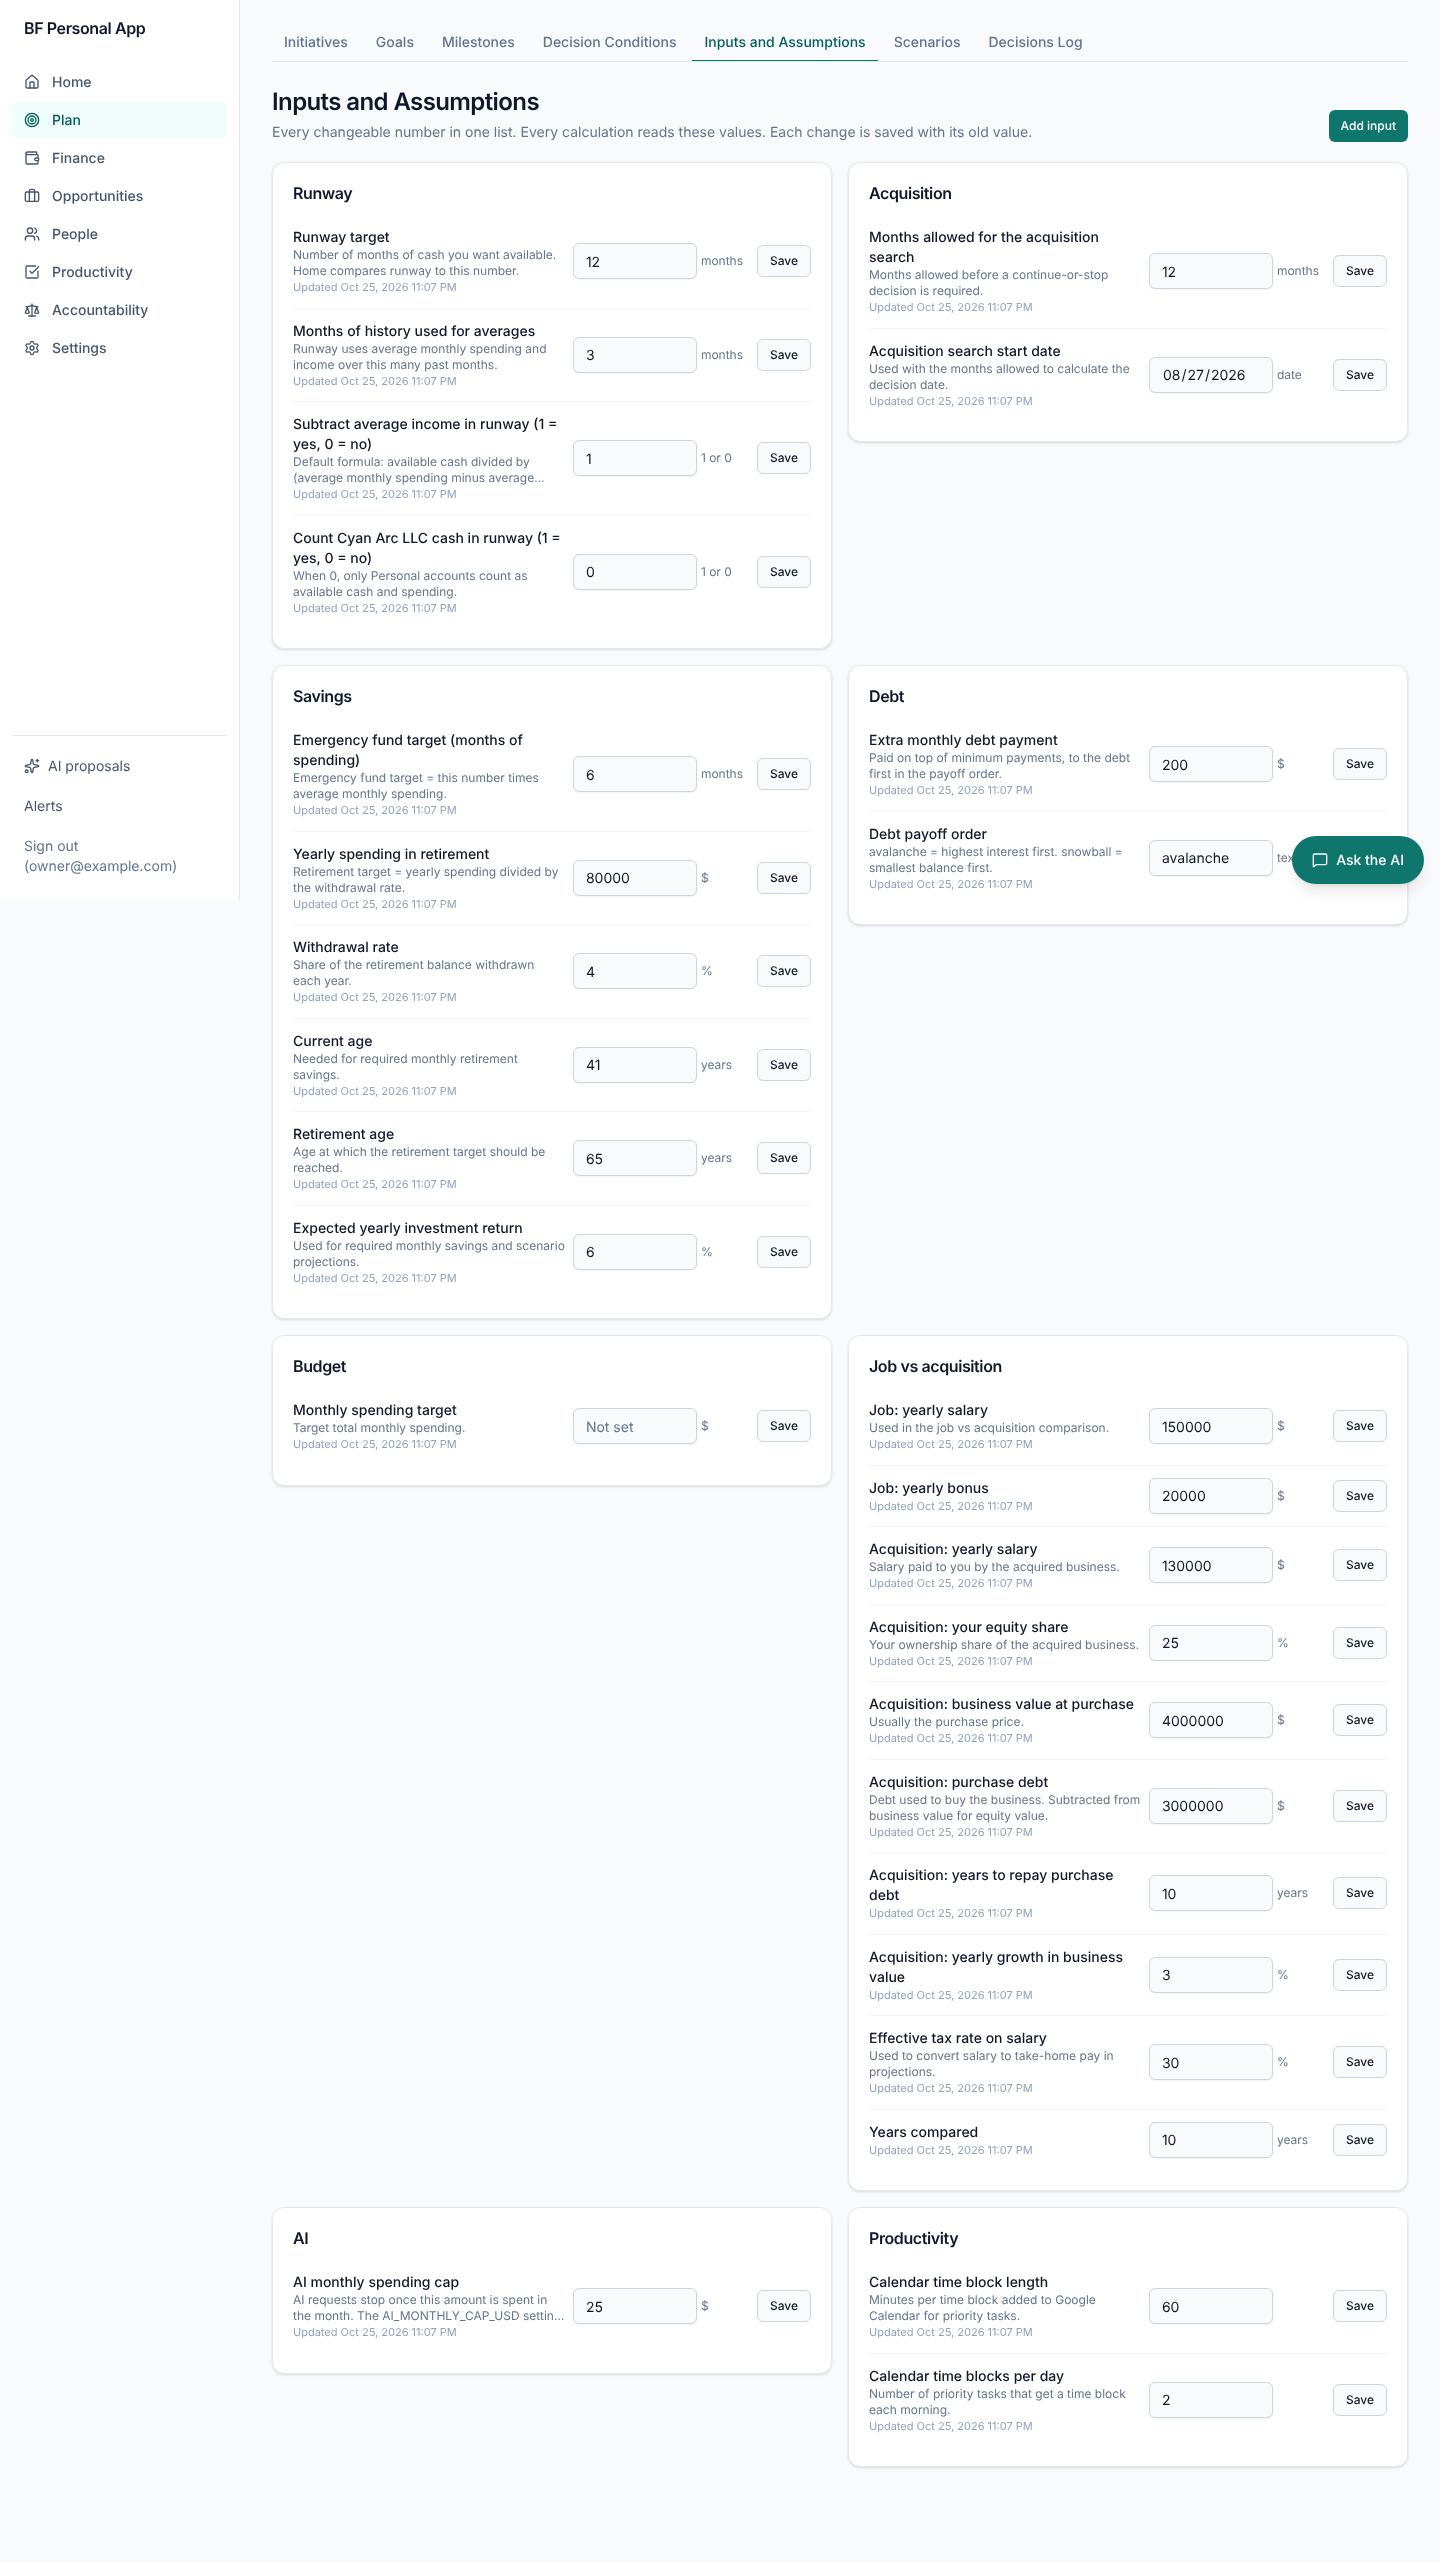
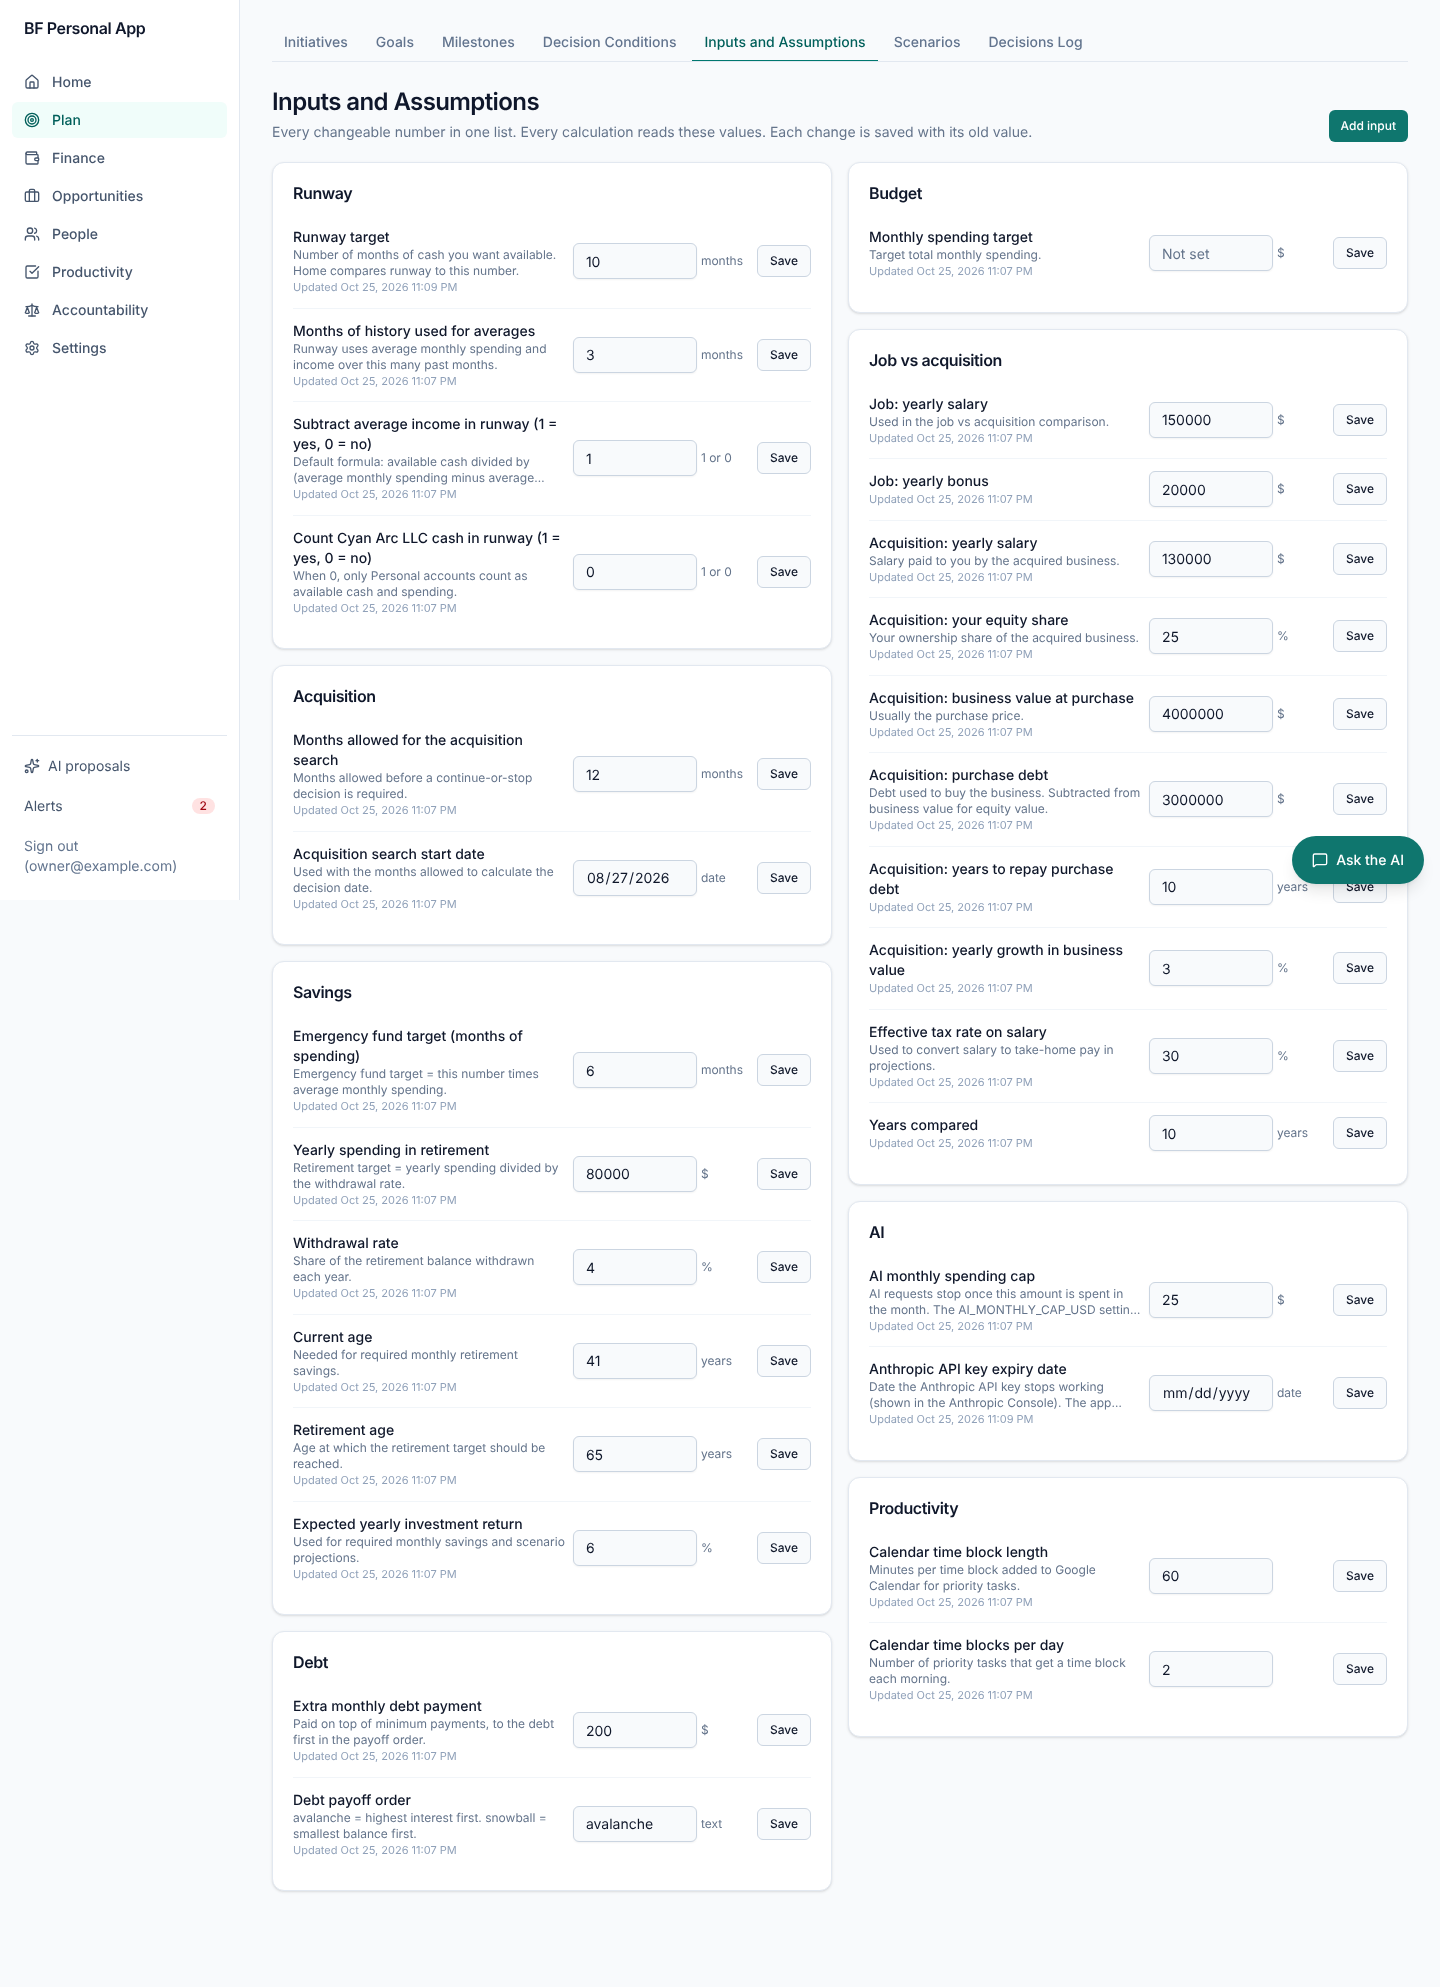
Inputs and Assumptions: two balanced columns with no blank space between cards
Claude-Session: https://claude.ai/code/session_01WJTTs1f14fMncWM2EfvFkj

diff --git a/src/app/(app)/plan/inputs/page.tsx b/src/app/(app)/plan/inputs/page.tsx
@@ -30,9 +30,10 @@ export default async function InputsPage() {
           </Button>
         }
       />
-      <div className="grid grid-cols-1 items-start gap-4 xl:grid-cols-2">
+      {/* Two balanced columns on wide screens: each card sits directly under the one above it, so no blank space is left between cards of different heights. */}
+      <div className="gap-4 xl:columns-2">
         {Object.entries(groups).map(([group, list]) => (
-          <Card key={group}>
+          <Card key={group} className="mb-4 break-inside-avoid">
             <CardHeader>
               <CardTitle>{group}</CardTitle>
             </CardHeader>
